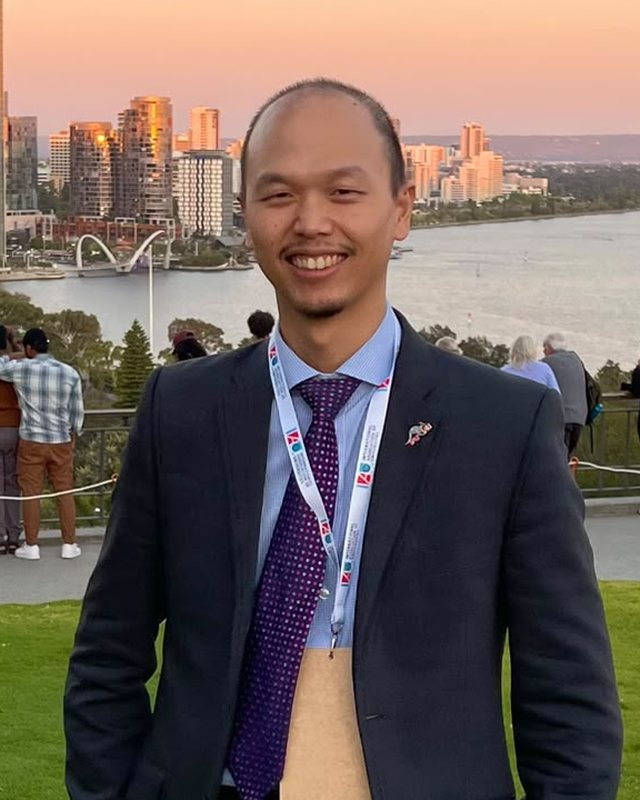
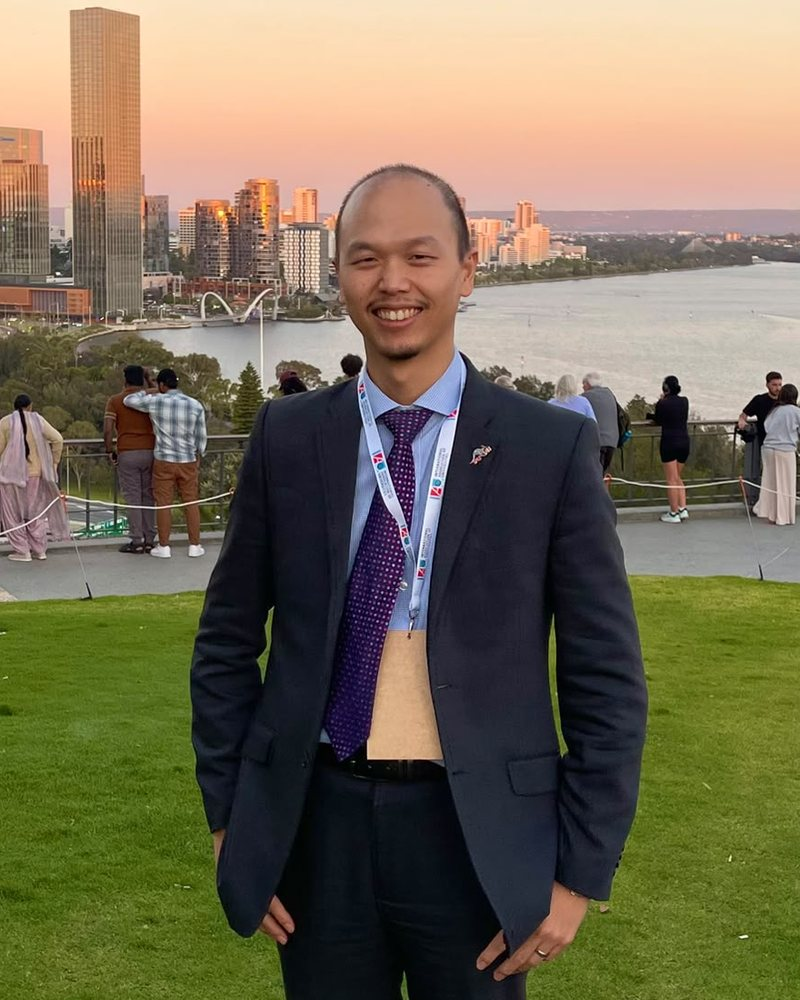
Plainer Research intro; wider headshot crop shown larger
- Research intro now simply names the three themes
- Headshot recropped with more of the Perth background (800×1000)
- Home intro photo column 14rem → 20rem (phones: up to 20rem)

Claude-Session: https://claude.ai/code/session_01BHaNzAzSg7x4kSjcefhwGM

diff --git a/assets/css/style.css b/assets/css/style.css
@@ -349,7 +349,7 @@ html:not(.is-ready) #page { visibility: hidden; }
 .intro { padding-top: 4rem; padding-bottom: 1rem; }
 .intro .display { margin-top: .9rem; max-width: 22ch; }
 .intro__cols { display: grid; gap: 2rem; margin-top: 2.5rem; }
-.intro__photo { width: min(55%, 14rem); }
+.intro__photo { width: min(80%, 20rem); }
 .intro__photo img { width: 100%; aspect-ratio: 4 / 5; object-fit: cover; border-radius: 2px; }
 .intro__text p { font-size: 1.0625rem; line-height: 1.65; }
 .intro__text p + p { margin-top: 1rem; }
@@ -437,7 +437,7 @@ a.metarow:hover .metarow__line { opacity: 1; }
   .cover__role { grid-column: 1; grid-row: 2; align-self: end; }
   .cover__tag { grid-column: 2; grid-row: 2; margin: 1.5rem 0 0; font-size: 1.25rem; max-width: 24rem; text-align: right; }
   .intro { padding-top: 6rem; }
-  .intro__cols { grid-template-columns: 14rem minmax(0, 1fr); column-gap: 3rem; }
+  .intro__cols { grid-template-columns: 20rem minmax(0, 1fr); column-gap: 3rem; }
   .intro__photo { width: 100%; }
   .intro__text { columns: 2; column-gap: 2.5rem; }
   .intro__text p { break-inside: avoid; }
